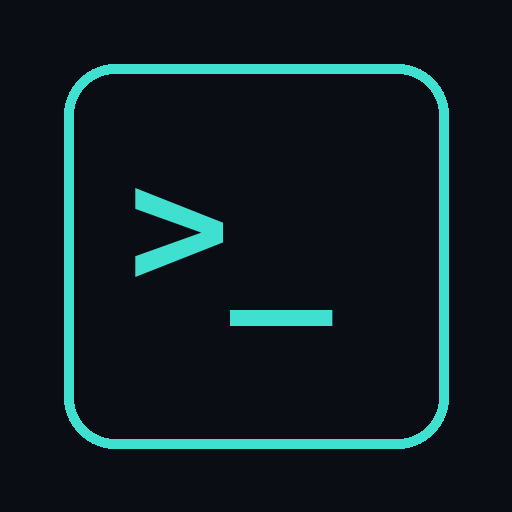
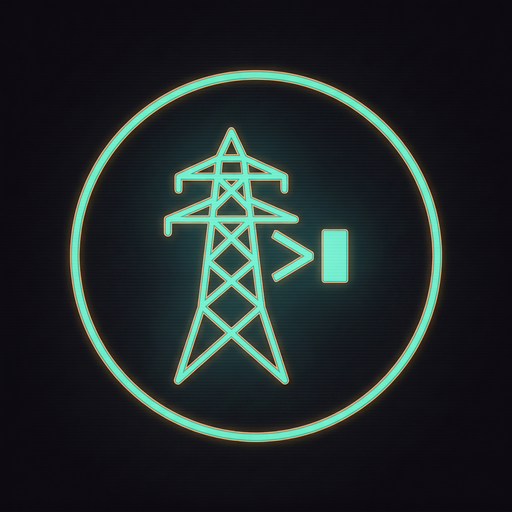
docs: add final Ptylon brand assets

Changed region(s): [[0.125, 0.125, 0.875, 0.875]]

diff --git a/README.md b/README.md
@@ -1,3 +1,7 @@
+<p align="center">
+  <img src="docs/images/ptylon-logo.png" alt="Ptylon logo" width="140" />
+</p>
+
 # Ptylon
 
 > A self-hosted, browser-native terminal workspace — Termius in a browser tab.
@@ -6,7 +10,7 @@
 [![Node.js 22+](https://img.shields.io/badge/node-22%2B-339933?logo=node.js&logoColor=white)](https://nodejs.org/)
 [![License: MIT](https://img.shields.io/badge/License-MIT-yellow.svg)](LICENSE)
 
-![Ptylon workspace with persistent terminal panes](docs/images/web-console-workspace.png)
+![Ptylon server-hall terminal workspace](docs/images/ptylon-hero.png)
 
 **Ptylon** brings persistent terminals, browser tools, files, editing, and
 workspaces into one browser tab. It is designed for a server you control—not a